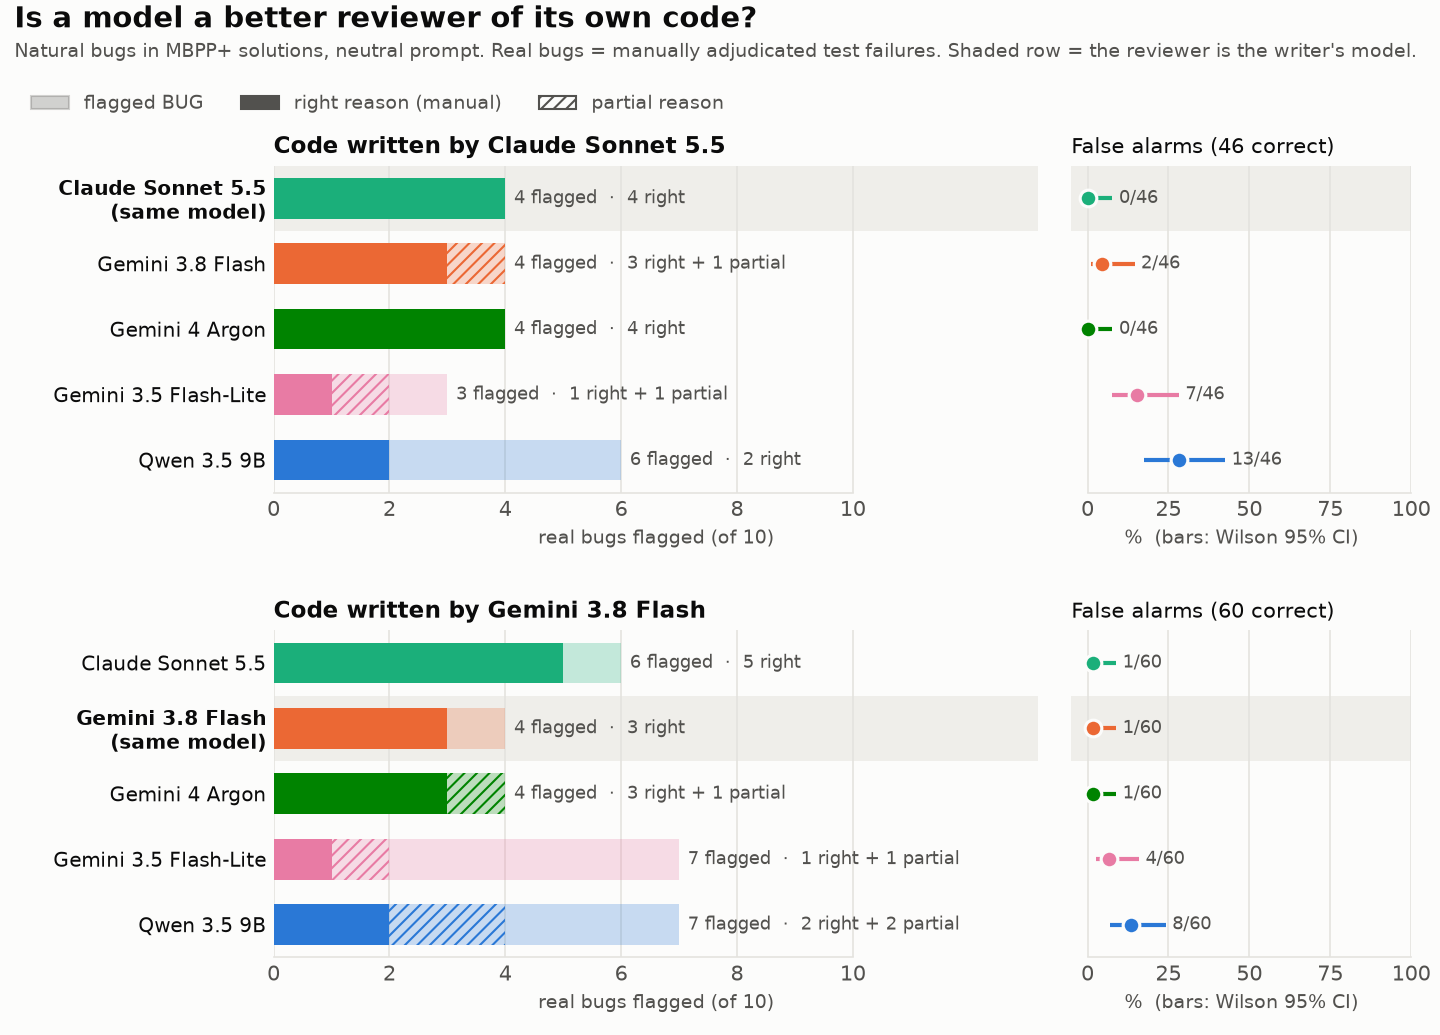
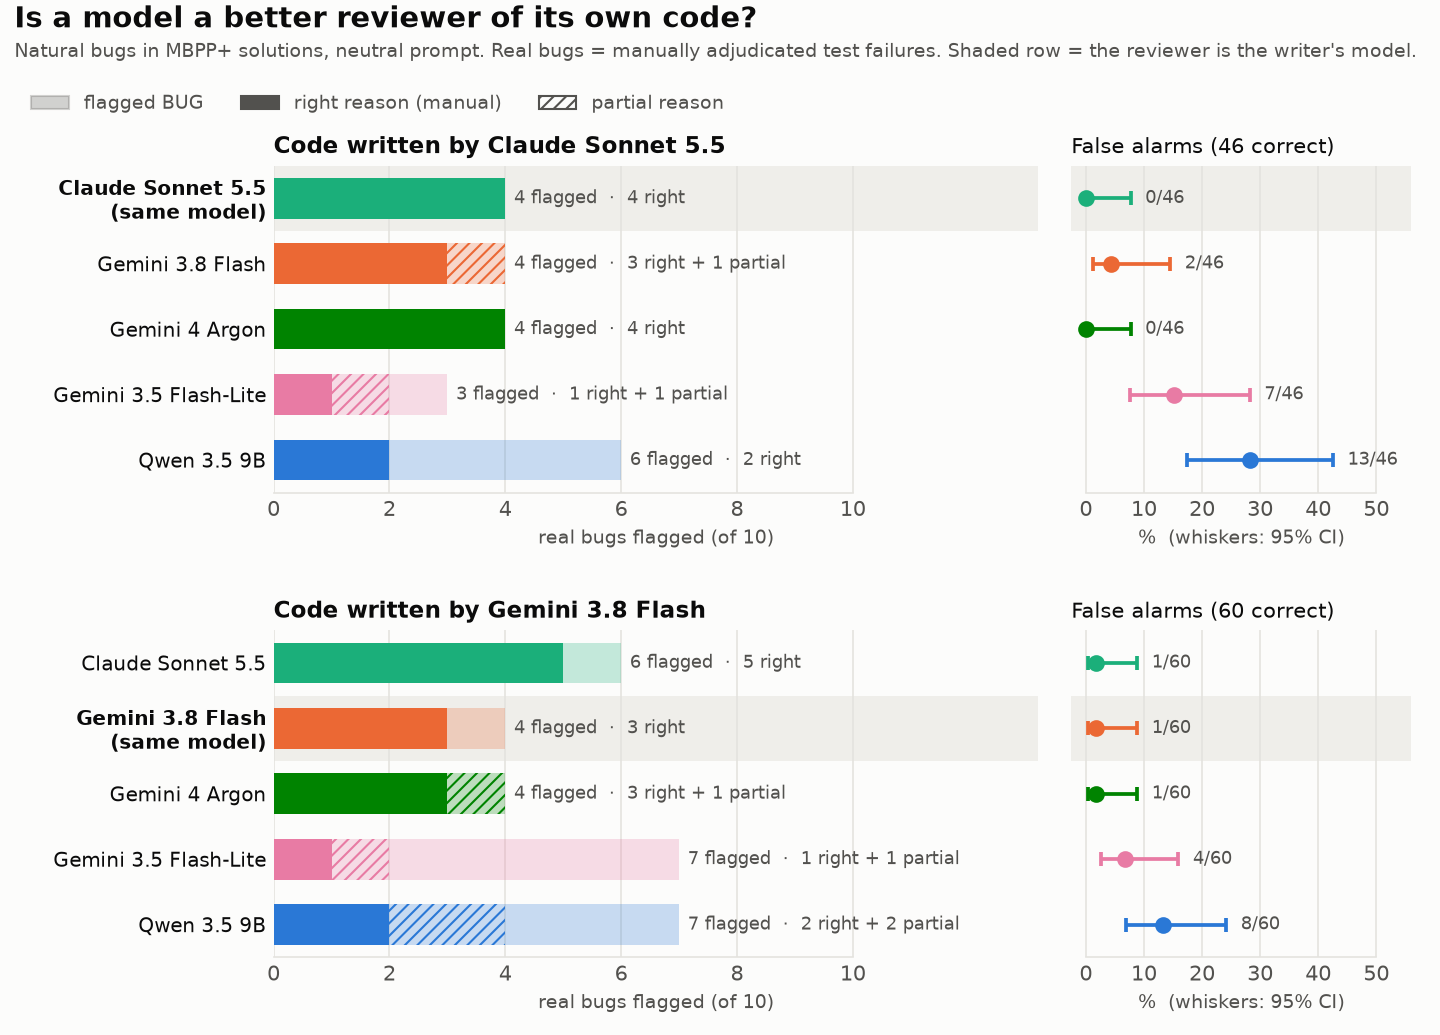
Figures: data-sized false-alarm axis, true minus signs, insight title, whisker CI labels

diff --git a/reviewbench/figures.py b/reviewbench/figures.py
@@ -71,6 +71,12 @@ def _ci_err(rate: Rate) -> list[list[float]]:
     return [[max(0.0, rate.value - lo) * 100], [max(0.0, hi - rate.value) * 100]]
 
 
+def _signed(value: float) -> str:
+    """'+3', '−4', '0': a real minus sign, and no sign on a rounded zero."""
+    text = f"{value:+.0f}"
+    return "0" if text in ("+0", "-0") else text.replace("-", "−")
+
+
 def _yticks(ax, labels: list[str], bold: list[bool]) -> None:
     ax.set_yticks(range(len(labels)), labels, color=INK, fontsize=9.5)
     for tick, b in zip(ax.get_yticklabels(), bold):
@@ -86,6 +92,8 @@ def plot_writer_reviewer(path: Path) -> dict:
     fig, axes = plt.subplots(2, 2, figsize=(9.6, 6.9), facecolor=SURFACE,
                              gridspec_kw={"width_ratios": [3.6, 1.6], "hspace": 0.42, "wspace": 0.06})
     plotted = {}
+    fa_lim = 50 if all(false_alarm_rate(g).ci[1] <= 0.45 for _, _, run, _, _ in WRITERS
+                       for g in (select(load_run(run), rev, "neutral") for rev in REVIEWERS) if g) else 100
     for row, (wkey, wlabel, run, adj_file, real_class) in enumerate(WRITERS):
         calls = load_run(run)
         adj = json.loads((ROOT / "docs" / adj_file).read_text(encoding="utf-8"))
@@ -120,9 +128,10 @@ def plot_writer_reviewer(path: Path) -> dict:
                 text += "  ·  reasons not graded yet"
             ax_bug.text(flags.k + 0.15, y, text, va="center", color=INK_2, fontsize=8.5)
             if fa.n:
-                ax_fa.errorbar(fa.value * 100, y, xerr=_ci_err(fa), fmt="o", color=color, markersize=8,
-                               elinewidth=2, capsize=0, markeredgecolor=SURFACE, markeredgewidth=1.5)
-                ax_fa.text(fa.ci[1] * 100 + 2, y, f"{fa.k}/{fa.n}", va="center", color=INK_2, fontsize=8.5)
+                ax_fa.errorbar(fa.value * 100, y, xerr=_ci_err(fa), fmt="o", color=color, markersize=7,
+                               elinewidth=1.8, capsize=3.5, capthick=1.8)
+                ax_fa.text(fa.ci[1] * 100 + fa_lim * 0.05, y, f"{fa.k}/{fa.n}", va="center", color=INK_2,
+                           fontsize=8.5)
             plotted[(wkey, rev)] = {"flagged": f"{flags.k}/{flags.n}", "right_partial": graded,
                                     "false_alarm": f"{fa.k}/{fa.n}"}
             if same:  # shade the same-model row in both panels
@@ -134,14 +143,14 @@ def plot_writer_reviewer(path: Path) -> dict:
         ax_bug.set_xlim(0, 13.2)  # room for the bar labels; the axis itself stops at 10
         ax_bug.set_xticks(range(0, 11, 2))
         ax_bug.spines["bottom"].set_bounds(0, 10)
-        ax_fa.set_xlim(-5, 100)  # a 0% dot is drawn whole, not cut by the axis
-        ax_fa.set_xticks([0, 25, 50, 75, 100])
-        ax_fa.spines["bottom"].set_bounds(0, 100)
+        ax_fa.set_xlim(-fa_lim * 0.05, fa_lim * 1.12)  # a 0% dot is drawn whole; room for the n labels
+        ax_fa.set_xticks(range(0, fa_lim + 1, fa_lim // 4 if fa_lim == 100 else 10))
+        ax_fa.spines["bottom"].set_bounds(0, fa_lim)
         ax_bug.set_title(f"Code written by {wlabel}", color=INK, fontsize=11, loc="left", fontweight="bold")
         ax_bug.set_xlabel(f"real bugs flagged (of {n_real or 10})", color=INK_2, fontsize=9)
         ax_fa.set_title(f"False alarms ({n_correct} correct)", color=INK, fontsize=10,
                         loc="left")
-        ax_fa.set_xlabel("%  (bars: Wilson 95% CI)", color=INK_2, fontsize=9)
+        ax_fa.set_xlabel("%  (whiskers: 95% CI)", color=INK_2, fontsize=9)
     legend = [Patch(color=INK_2, alpha=0.25, label="flagged BUG"),
               Patch(color=INK_2, label="right reason (manual)"),
               Patch(facecolor="none", edgecolor=INK_2, hatch="////", label="partial reason")]
@@ -222,17 +231,15 @@ def plot_persona_effect(path: Path) -> dict:
             for y, (_, _, prompt, st) in enumerate(mine):
                 diff, lo, hi, b, c = st[metric]
                 lo, hi = max(lo, -lim / 100), min(hi, lim / 100)
-                ax.plot([lo * 100, hi * 100], [y, y], color=color, linewidth=2.2, solid_capstyle="round",
-                        zorder=2)
-                ax.plot(diff * 100, y, "o", color=color, markersize=8.5, markeredgecolor=SURFACE,
-                        markeredgewidth=1.5, zorder=3)
-                ax.text(hi * 100 + lim * 0.04, y, f"{diff * 100:+.0f} pp", va="center", ha="left",
+                ax.errorbar(diff * 100, y, xerr=[[(diff - lo) * 100], [(hi - diff) * 100]], fmt="o",
+                            color=color, markersize=7.5, elinewidth=1.8, capsize=3.5, capthick=1.8, zorder=3)
+                ax.text(hi * 100 + lim * 0.04, y, _signed(diff * 100) + " pp", va="center", ha="left",
                         color=INK_2, fontsize=8.5)
                 plotted[(title, prompt, metric)] = f"+{c} / -{b}"
             ax.set_ylim(len(mine) - 0.5, -0.5)
             ax.set_xlim(-lim, lim)
             ticks = [-lim, -lim // 2, 0, lim // 2, lim]
-            ax.set_xticks(ticks, [f"{t:+d}" if t else "0" for t in ticks])
+            ax.set_xticks(ticks, [_signed(t) for t in ticks])
             ax.tick_params(labelsize=8.5)
             if col == 0:
                 ax.set_yticks(range(len(mine)), [label[r[2]] for r in mine], color=INK, fontsize=9.5)
@@ -245,12 +252,12 @@ def plot_persona_effect(path: Path) -> dict:
         box = axes[0][col].get_position()
         fig.text(box.x0, 1 - 1.0 / height, head, color=INK, fontsize=11.5, ha="left", fontweight="bold")
         fig.text((box.x0 + box.x1) / 2, 1 - 1.25 / height, hint, color=INK_2, fontsize=8.5, ha="center")
-        axes[-1][col].set_xlabel("percentage points (line: 95% CI of the paired difference)", color=INK_2,
+        axes[-1][col].set_xlabel("percentage points (whiskers: 95% CI of the paired difference)", color=INK_2,
                                  fontsize=8.5)
-    fig.text(0.01, 1 - 0.3 / height, "Do role prompts (personas) help a reviewer?", ha="left", va="center",
+    fig.text(0.01, 1 - 0.3 / height, "Role prompts (personas) do not make strong reviewers better", ha="left", va="center",
              color=INK, fontsize=14, fontweight="bold")
     fig.text(0.01, 1 - 0.62 / height, "Each dot: the same reviewer with a persona system prompt minus without "
-             "one, on the same samples. A line crossing 0 = no clear effect.", va="center", color=INK_2,
+             "one, on the same samples. Whiskers crossing 0 = no clear effect.", va="center", color=INK_2,
              fontsize=9)
     fig.savefig(path, dpi=150, facecolor=SURFACE)
     plt.close(fig)
@@ -272,17 +279,21 @@ def plot_v3_rates(path: Path) -> dict:
     fig, (ax_c, ax_f) = plt.subplots(1, 2, figsize=(9.6, height), facecolor=SURFACE,
                                      gridspec_kw={"width_ratios": [1.3, 2.7], "wspace": 0.2})
     plotted = {}
-    for ax, idx, lim, ticks in ((ax_c, 1, (85, 101), [85, 90, 95, 100]),
+    for ax, idx, lim, ticks in ((ax_c, 1, (84, 100.8), [85, 90, 95, 100]),
                                 (ax_f, 2, (-3, 103), [0, 25, 50, 75, 100])):
         _style(ax)
         for y, row in enumerate(stats):
             rate, color = row[idx], reviewer_color(row[0])
             lo, hi = rate.ci
-            ax.plot([lo * 100, hi * 100], [y, y], color=color, linewidth=2.2, solid_capstyle="round", zorder=2)
-            ax.plot(rate.value * 100, y, "o", color=color, markersize=9, markeredgecolor=SURFACE,
-                    markeredgewidth=1.5, zorder=3)
+            if idx == 2:  # the false-alarm axis starts at 0, so a light bar shows the size from 0
+                ax.barh(y, rate.value * 100, height=0.56, color=color, alpha=0.18, linewidth=0, zorder=1)
+            ax.errorbar(rate.value * 100, y, xerr=[[(rate.value - lo) * 100], [(hi - rate.value) * 100]],
+                        fmt="o", color=color, markersize=8, elinewidth=1.8, capsize=4, capthick=1.8, zorder=3)
+            text = f"{rate.value * 100:.0f}%  [{lo * 100:.0f}–{hi * 100:.0f}]"
             if idx == 2:
-                ax.text(hi * 100 + 2, y, f"{rate.value * 100:.0f}%  ({rate.k}/{rate.n})", va="center",
+                ax.text(hi * 100 + 2, y, text, va="center", color=INK_2, fontsize=8.5)
+            else:  # catch rates sit near 100%: the label goes on the empty left side of the panel
+                ax.text(84.3, y, f"{rate.value * 100:.0f}%  ({rate.k}/{rate.n})", va="center", ha="left",
                         color=INK_2, fontsize=8.5)
             plotted[(row[0], idx)] = f"{rate.k}/{rate.n}"
         ax.set_xlim(*lim)
@@ -290,7 +301,7 @@ def plot_v3_rates(path: Path) -> dict:
         ax.spines["bottom"].set_bounds(ticks[0], ticks[-1])
         ax.set_ylim(len(stats) - 0.5, -0.5)
         ax.tick_params(labelsize=8.5)
-        ax.set_xlabel("%  (line: Wilson 95% CI)", color=INK_2, fontsize=8.5)
+        ax.set_xlabel("%", color=INK_2, fontsize=9)
     ax_c.set_yticks(range(len(stats)), [REVIEWER_LABEL[r[0]] for r in stats], color=INK, fontsize=9.5)
     ax_f.set_yticks(range(len(stats)), [""] * len(stats))
     ax_c.set_title("Catch rate (axis from 85%)", color=INK, fontsize=10.5, loc="left", fontweight="bold")
@@ -299,7 +310,8 @@ def plot_v3_rates(path: Path) -> dict:
     fig.text(0.01, 1 - 0.28 / height, "Harder code (BigCodeBench): bugs are still caught, false alarms "
              "separate the reviewers", ha="left", va="center", color=INK, fontsize=12.5, fontweight="bold")
     fig.text(0.01, 1 - 0.58 / height, f"samples_v3: {n} injected bugs + {n} correct solutions, neutral prompt. "
-             "Sorted by false-alarm rate.", color=INK_2, fontsize=9, va="center")
+             "Dot = measured rate, whiskers and [ ] = 95% confidence interval.", color=INK_2,
+             fontsize=9, va="center")
     fig.subplots_adjust(left=0.19, right=0.97, top=1 - 1.05 / height, bottom=0.55 / height)
     fig.savefig(path, dpi=150, facecolor=SURFACE)
     plt.close(fig)
